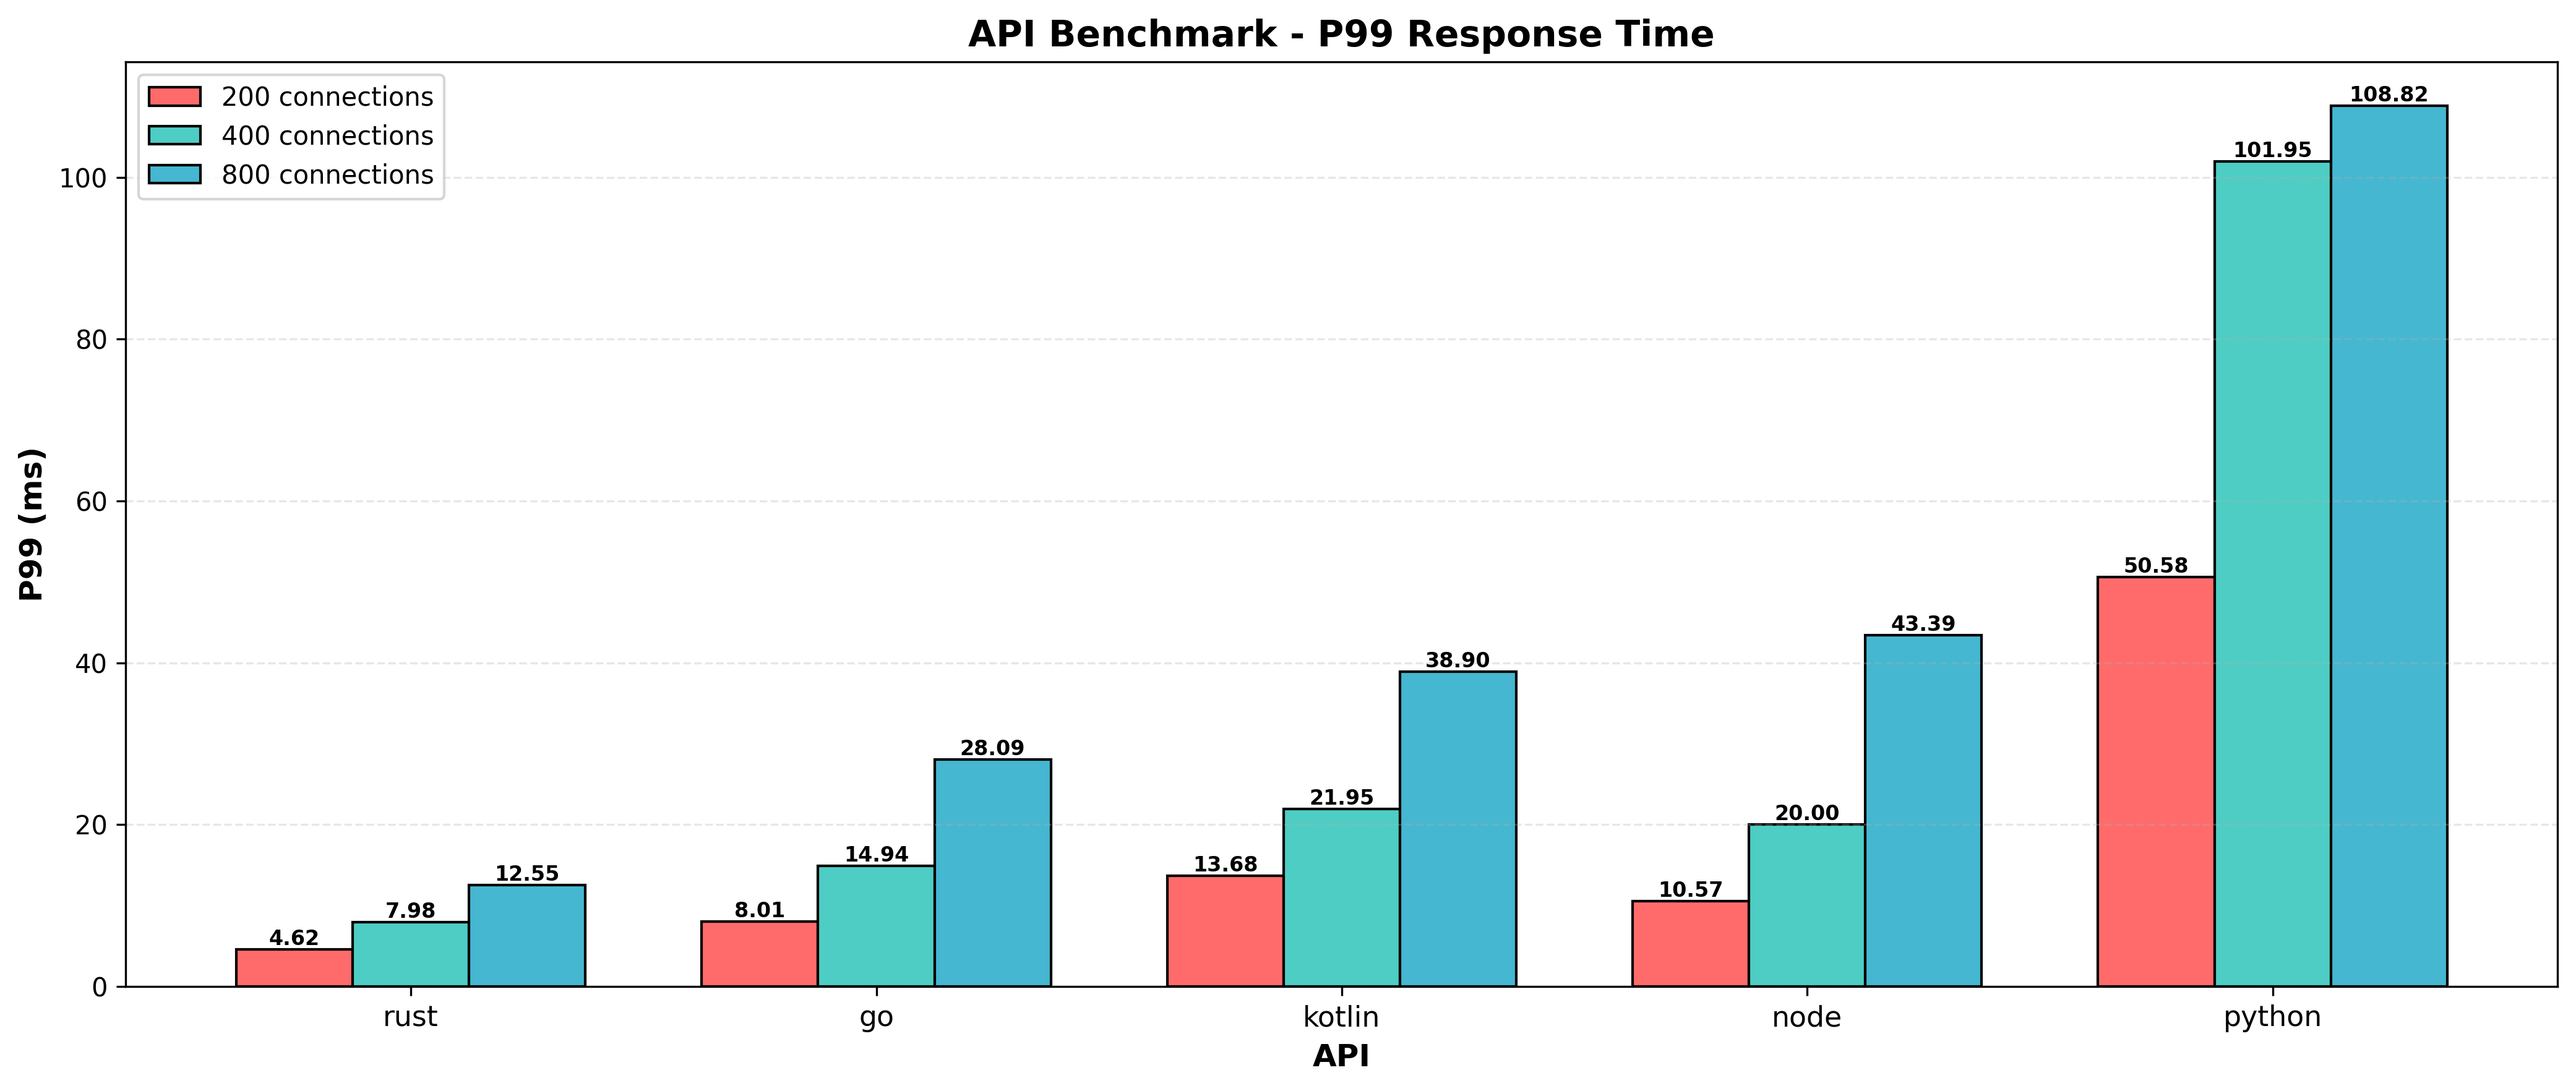
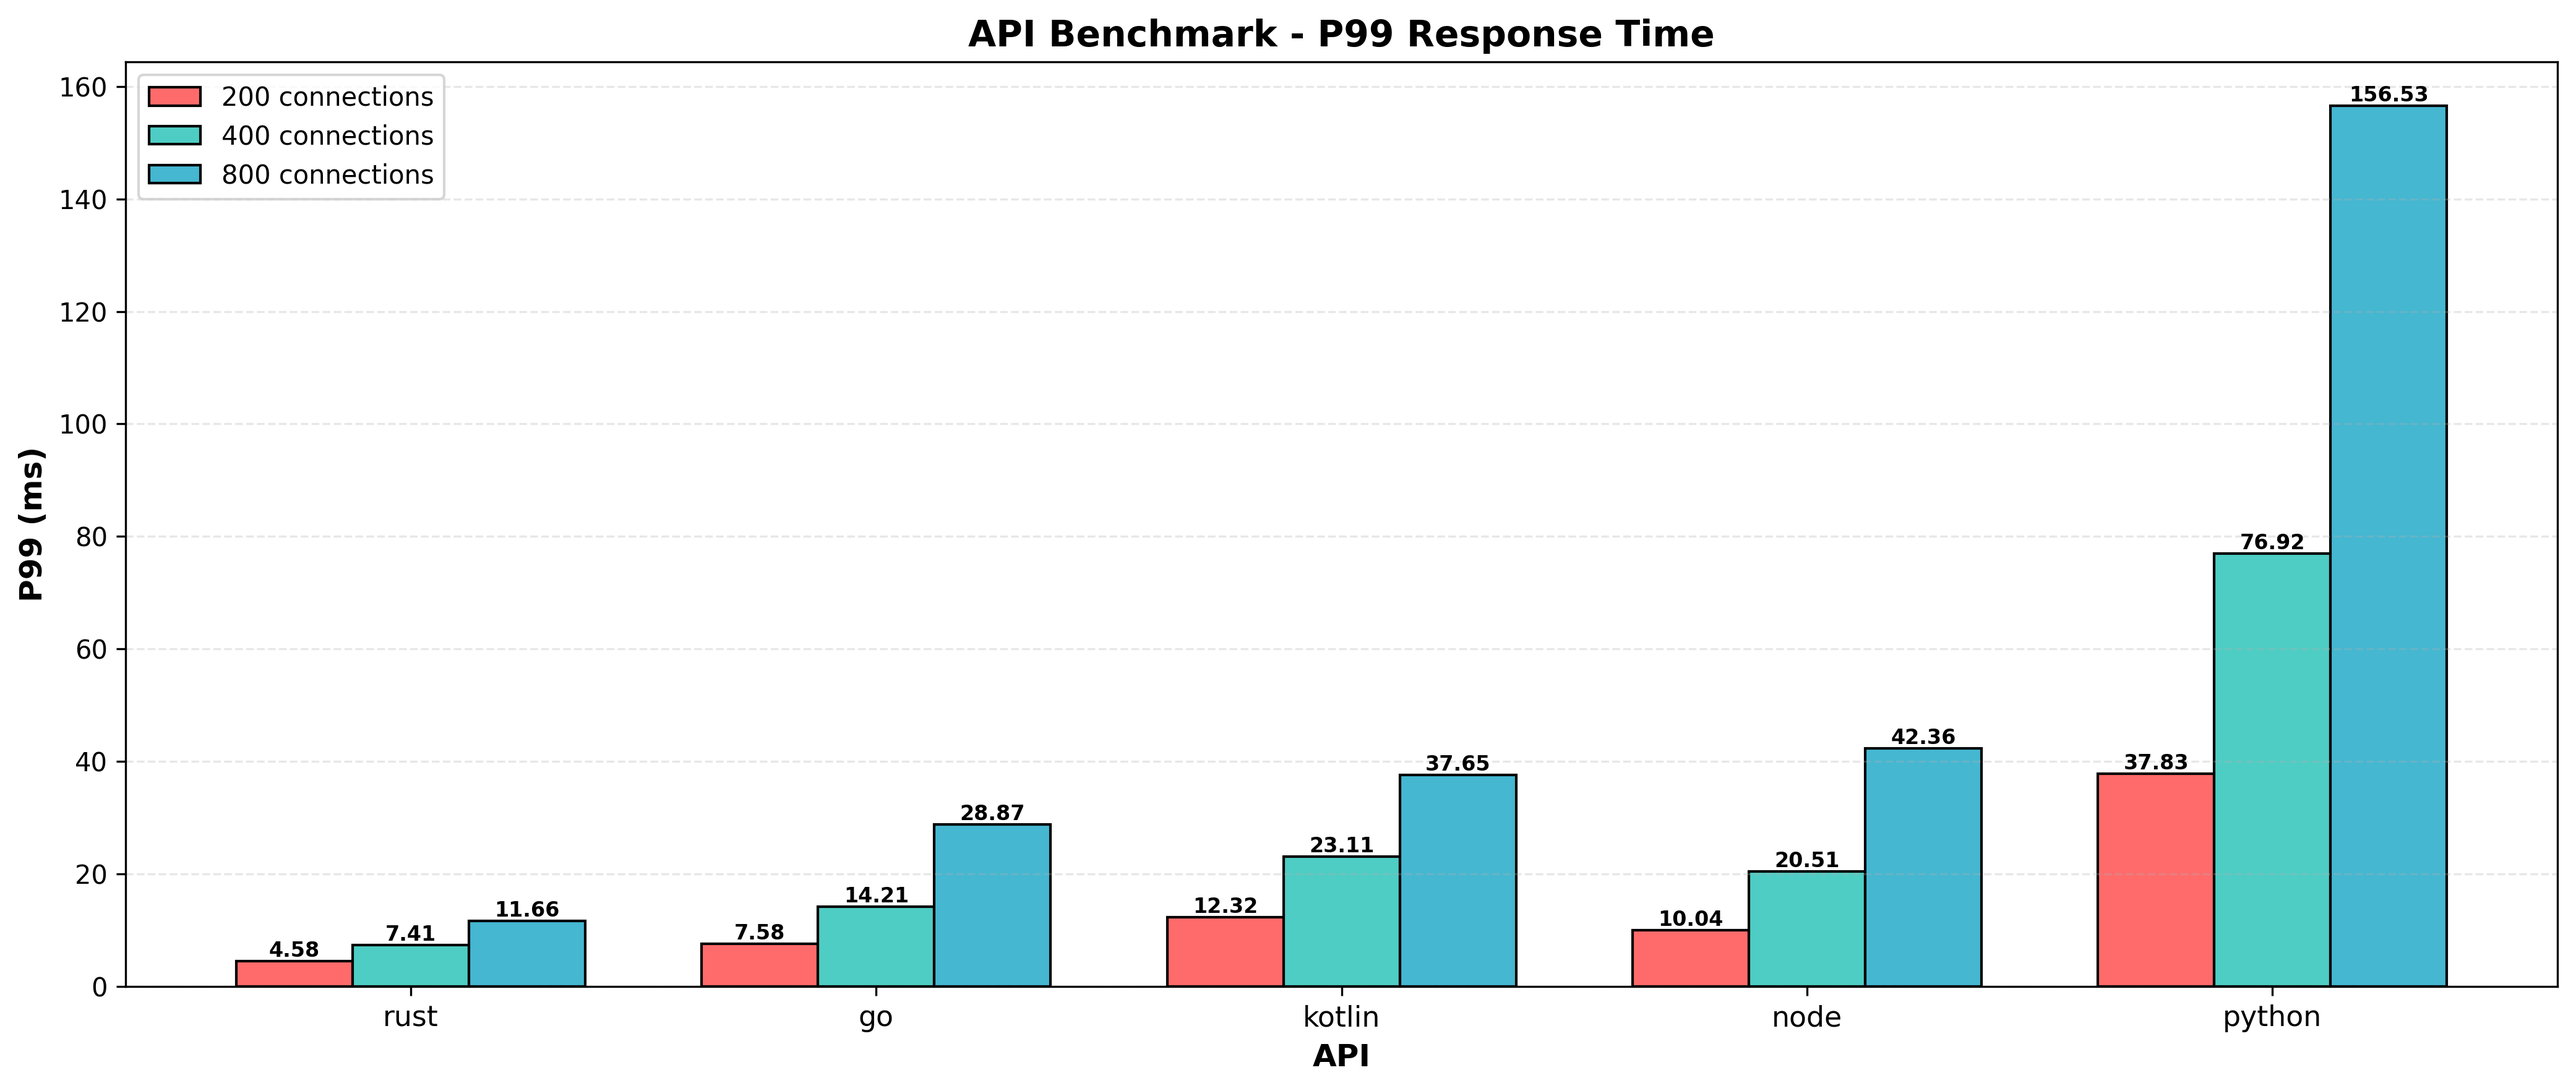
results from github actions autocommit

diff --git a/results/raw.md b/results/raw.md
@@ -1,6 +1,6 @@
 # Results
 ## Timestamp
-Fri Jan 16 11:18:45 UTC 2026
+Mon Jan 19 11:14:04 UTC 2026
 ## Hardware Info
 | CPU Model | Num CPUs | Memory |
 | --------- | -------- | ------ |
@@ -9,18 +9,18 @@ Fri Jan 16 11:18:45 UTC 2026
 ## Benchmarks of 1 Million Requests
 | Test Name | HTTP Conns | Success Rate | Test Seconds | Requests per Second | P50 Millis | P99 Millis | P99.9 Millis | API Memory MB | API CPU Time | API Threads | API Processes |
 | --------- | ---------- | ------------ | ------------ | ------------------- | ---------- | ---------- | ------------ | ------------- | ------------ | ----------- | ------------- |
-| rust | 200 | 100.0% | 9.2 | 108469.2 | 1.6967 | 4.6163 | 6.1275 | 8.4 | 00:00:17 | 5 | 1 |
-| rust | 400 | 100.0% | 9.3 | 106965.0 | 3.5516 | 7.9796 | 10.9863 | 12.9 | 00:00:18 | 5 | 1 |
-| rust | 800 | 100.0% | 10.3 | 96794.7 | 8.1807 | 12.5500 | 19.1226 | 22.1 | 00:00:20 | 5 | 1 |
-| go | 200 | 100.0% | 12.4 | 80171.5 | 1.9456 | 8.0134 | 11.0219 | 17.6 | 00:00:29 | 10 | 1 |
-| go | 400 | 100.0% | 12.3 | 80719.3 | 4.2220 | 14.9404 | 21.0252 | 24.7 | 00:00:29 | 10 | 1 |
-| go | 800 | 100.0% | 13.3 | 75212.0 | 9.6823 | 28.0913 | 42.3213 | 37.8 | 00:00:31 | 13 | 1 |
-| kotlin | 200 | 100.0% | 15.1 | 65729.2 | 2.1062 | 13.6826 | 37.0402 | 519.6 | 00:00:41 | 30 | 1 |
-| kotlin | 400 | 100.0% | 16.2 | 61305.5 | 5.3648 | 21.9520 | 59.9733 | 526.6 | 00:00:44 | 30 | 1 |
-| kotlin | 800 | 100.0% | 17.0 | 58837.1 | 11.3482 | 38.8974 | 76.1511 | 548.8 | 00:00:45 | 30 | 1 |
-| node | 200 | 100.0% | 39.8 | 25090.5 | 6.7910 | 10.5736 | 12.7595 | 106.1 | 00:00:40 | 7 | 1 |
-| node | 400 | 100.0% | 37.2 | 26861.8 | 13.1709 | 19.9984 | 23.5085 | 139.4 | 00:00:37 | 7 | 1 |
-| node | 800 | 100.0% | 40.8 | 24467.1 | 28.1672 | 43.3855 | 48.9070 | 149.9 | 00:00:41 | 7 | 1 |
-| python | 200 | 100.0% | 104.8 | 9563.3 | 15.7089 | 50.5784 | 54.0877 | 134.7 | 00:06:16 | 5 | 5 |
-| python | 400 | 100.0% | 104.6 | 9539.2 | 32.2569 | 101.9490 | 111.0394 | 135.3 | 00:06:17 | 5 | 5 |
-| python | 800 | 100.0% | 106.7 | 9727.8 | 83.5268 | 108.8223 | 122.5606 | 144.1 | 00:06:27 | 5 | 5 |
+| rust | 200 | 100.0% | 8.9 | 111857.0 | 1.6486 | 4.5778 | 6.0794 | 8.5 | 00:00:17 | 5 | 1 |
+| rust | 400 | 100.0% | 8.7 | 113892.7 | 3.3246 | 7.4116 | 10.6793 | 13.1 | 00:00:17 | 5 | 1 |
+| rust | 800 | 100.0% | 9.5 | 105059.4 | 7.4581 | 11.6628 | 19.2290 | 22.0 | 00:00:18 | 5 | 1 |
+| go | 200 | 100.0% | 12.0 | 82866.1 | 1.8886 | 7.5844 | 10.5772 | 17.7 | 00:00:28 | 11 | 1 |
+| go | 400 | 100.0% | 11.8 | 84341.3 | 4.0249 | 14.2105 | 20.1639 | 24.2 | 00:00:28 | 10 | 1 |
+| go | 800 | 100.0% | 12.6 | 79583.0 | 9.0338 | 28.8661 | 42.6431 | 37.3 | 00:00:29 | 11 | 1 |
+| kotlin | 200 | 100.0% | 14.0 | 71034.5 | 1.9706 | 12.3152 | 33.7772 | 507.1 | 00:00:37 | 30 | 1 |
+| kotlin | 400 | 100.0% | 15.9 | 62584.4 | 5.3113 | 23.1090 | 67.1724 | 540.7 | 00:00:44 | 30 | 1 |
+| kotlin | 800 | 100.0% | 15.0 | 66431.5 | 10.1870 | 37.6515 | 104.4032 | 511.6 | 00:00:40 | 30 | 1 |
+| node | 200 | 100.0% | 36.3 | 27562.4 | 6.2970 | 10.0445 | 11.9367 | 106.2 | 00:00:36 | 7 | 1 |
+| node | 400 | 100.0% | 37.4 | 26706.3 | 13.1296 | 20.5084 | 25.4204 | 139.5 | 00:00:37 | 7 | 1 |
+| node | 800 | 100.0% | 39.3 | 25404.3 | 27.7191 | 42.3551 | 57.5091 | 147.6 | 00:00:39 | 7 | 1 |
+| python | 200 | 100.0% | 102.2 | 9790.2 | 24.8016 | 37.8330 | 44.4642 | 134.7 | 00:06:05 | 5 | 5 |
+| python | 400 | 100.0% | 104.7 | 9565.4 | 37.1236 | 76.9191 | 80.8802 | 135.7 | 00:06:16 | 5 | 5 |
+| python | 800 | 100.0% | 108.0 | 9267.4 | 75.9725 | 156.5296 | 167.6281 | 142.9 | 00:06:30 | 5 | 5 |

diff --git a/results/latest.md b/results/latest.md
@@ -1,6 +1,6 @@
 # Latest Results
 
-Timestamp: `Fri Jan 16 11:18:45 UTC 2026`
+Timestamp: `Mon Jan 19 11:14:04 UTC 2026`
 
 ## Requests Per Second
 ![Requests Per Second](rps.png)
